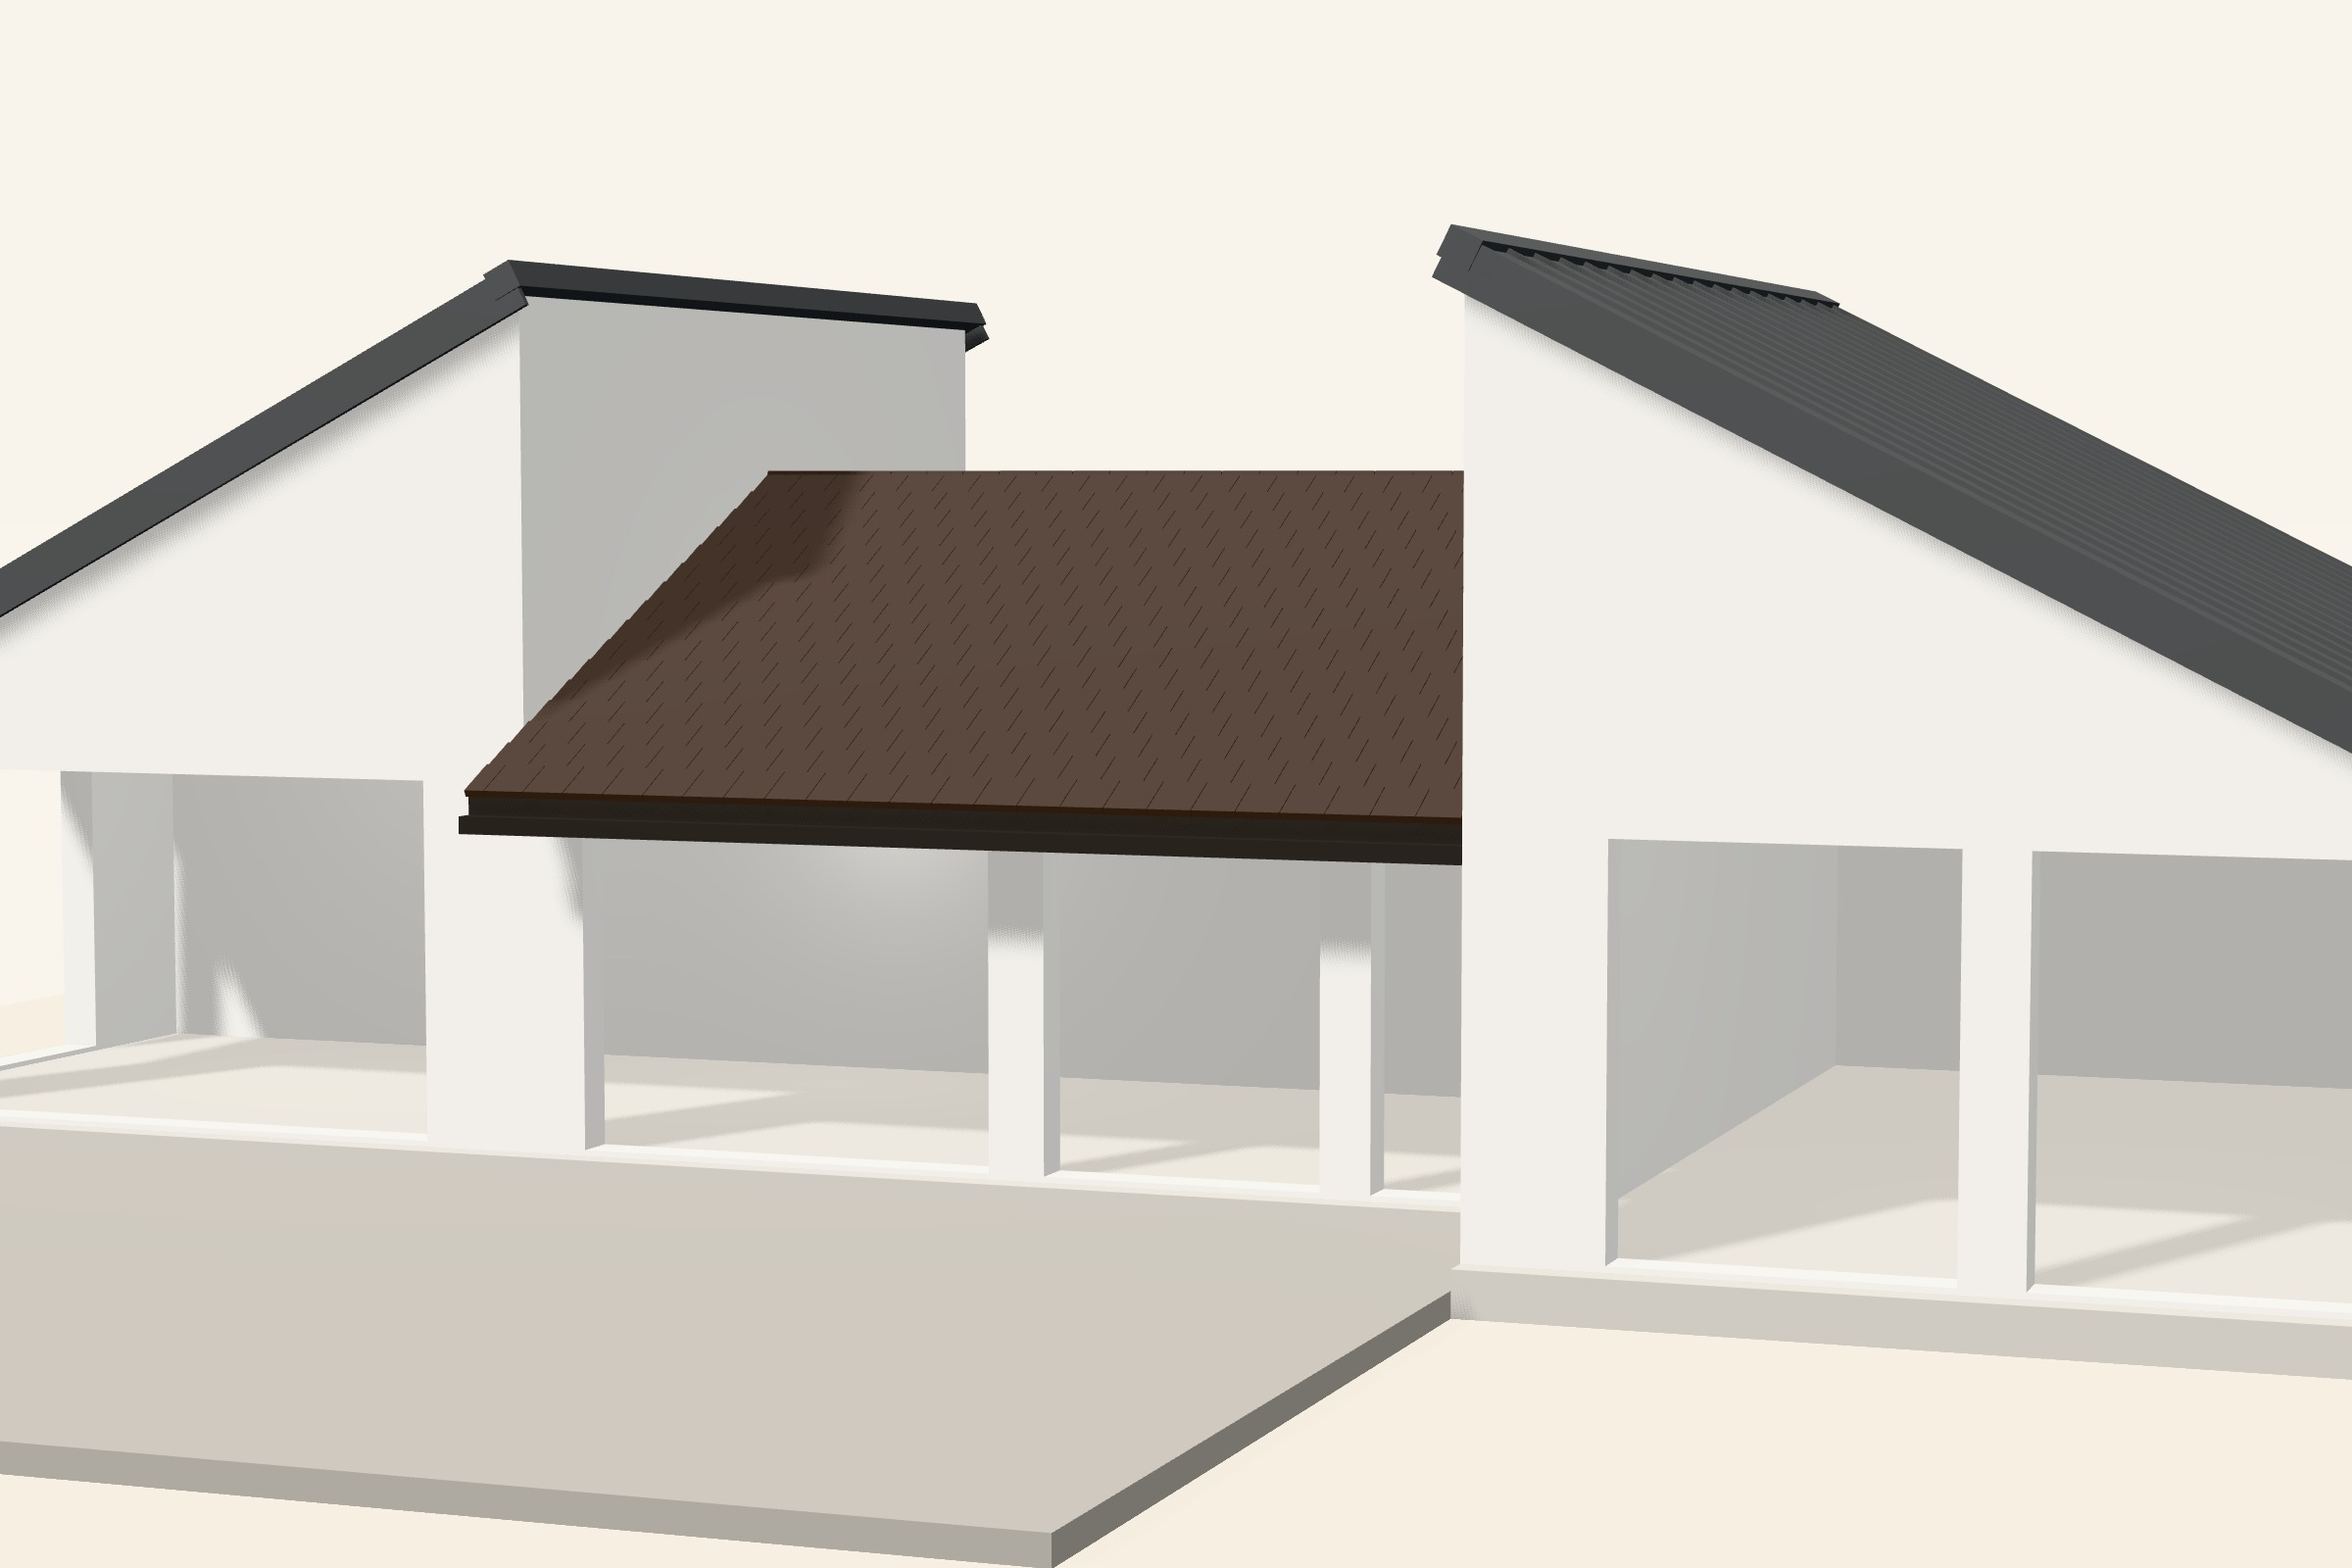
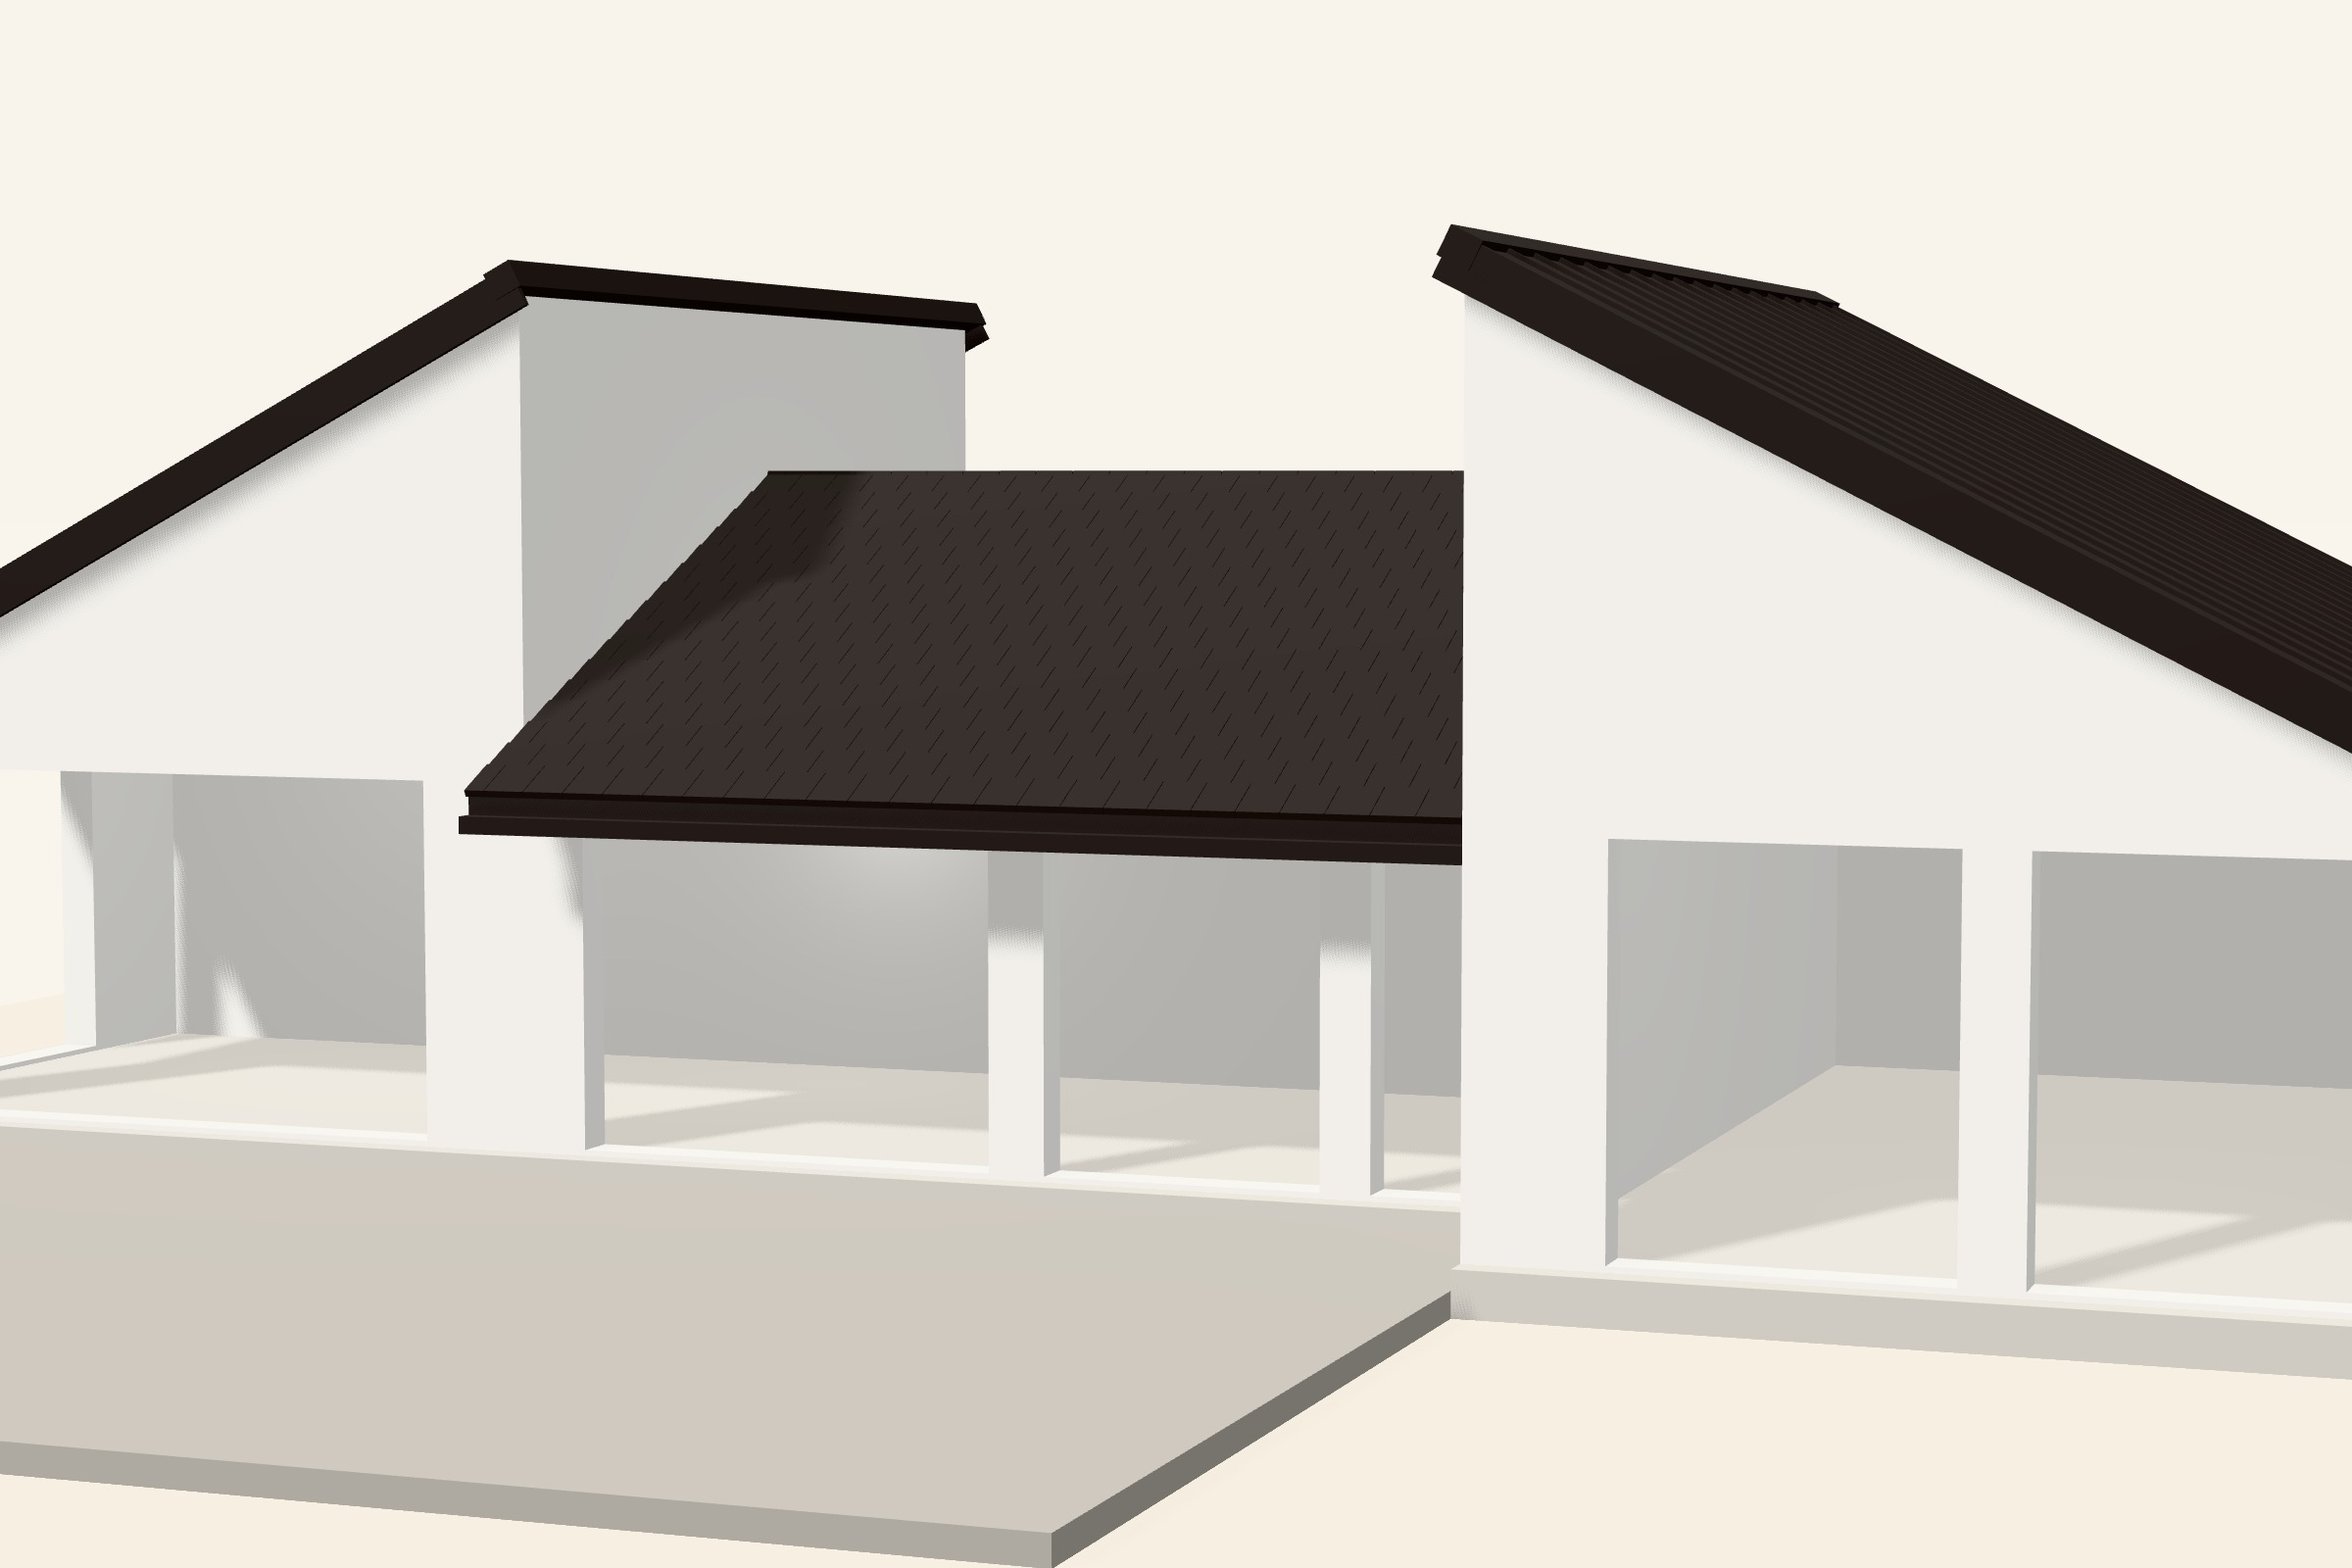
feat: give all roofs one colour, RAL 8019 Grey Brown
Use the same dark grey-brown on the wings, the tiled centre and the front
gutter, dimmed so that it reads as the swatch under the scene's strong sun.
Re-render the stills that show the finished roofs.

Changed region(s): [[0.1875, 0.2812, 0.625, 0.5312], [0.5938, 0.125, 1.0, 0.4688], [0.0, 0.1562, 0.4375, 0.4062]]

diff --git a/components/hero/house-model.ts b/components/hero/house-model.ts
@@ -19,6 +19,8 @@ function oklch(l: number, c: number, h: number) {
 export const SKY_START = oklch(0.972, 0.012, 85) // --beige
 const SKY_DAY = oklch(0.915, 0.028, 82)
 const INK = oklch(0.22, 0.012, 70) // --ink
+const RAL_8019 = "#3d3635" // Grey Brown (Graubraun).
+const ROOF_DIMMING = 0.5
 const ROOM_LIGHT = oklch(0.98, 0.004, 90)
 
 const SLAB_TOP = 0.3
@@ -229,8 +231,10 @@ export function buildHouse({ lite = false }: { lite?: boolean } = {}) {
   const fabric = material(oklch(0.9, 0.006, 85), 0.95, 0, clipSlab)
   const frame = material(oklch(0.97, 0.003, 90), 0.42, 0.1, clipSlab)
   const dark = material(oklch(0.34, 0.006, 60), 0.5, 0.2, clipSlab)
-  const metalRoof = () => material(oklch(0.46, 0.005, 250), 0.68, 0.05)
-  const tile = () => material(oklch(0.36, 0.022, 45), 0.72)
+  // Every roof is RAL 8019 Grey Brown. The strong sun brightens whatever it lights,
+  // so the base colour is dimmed to read as that swatch in the finished picture.
+  const roofing = () =>
+    material(new THREE.Color(RAL_8019).multiplyScalar(ROOF_DIMMING), 0.72)
 
   const addRise = (
     object: THREE.Object3D,
@@ -953,10 +957,10 @@ export function buildHouse({ lite = false }: { lite?: boolean } = {}) {
     0.5,
     0.6
   )
-  addDrop(living.roof, metalRoof(), 0.56, 0.64)
-  addDrop(bedroom.roof, metalRoof(), 0.6, 0.68)
-  addDrop(slope(-1), tile(), 0.63, 0.7)
-  addDrop(slope(1), tile(), 0.67, 0.75)
+  addDrop(living.roof, roofing(), 0.56, 0.64)
+  addDrop(bedroom.roof, roofing(), 0.6, 0.68)
+  addDrop(slope(-1), roofing(), 0.63, 0.7)
+  addDrop(slope(1), roofing(), 0.67, 0.75)
 
   const front = slopeCentre(1)
   const eaveY = front.y - (SLOPE_LENGTH / 2) * Math.sin(PITCH) + 0.08
@@ -968,7 +972,7 @@ export function buildHouse({ lite = false }: { lite?: boolean } = {}) {
     { size: [0.09, eaveY - 0.25, 0.09], at: [3.5, eaveY / 2, ZF + 0.08] },
   ])
   eaveGeometry.translate((X1 + X2) / 2, 0, 0)
-  addDrop(eaveGeometry, material(oklch(0.34, 0.006, 60), 0.5, 0.2), 0.7, 0.76)
+  addDrop(eaveGeometry, roofing(), 0.7, 0.76)
   ghostSources.push(
     boxGeometry({
       size: [CENTRE_W, 0.1, SLOPE_LENGTH],
